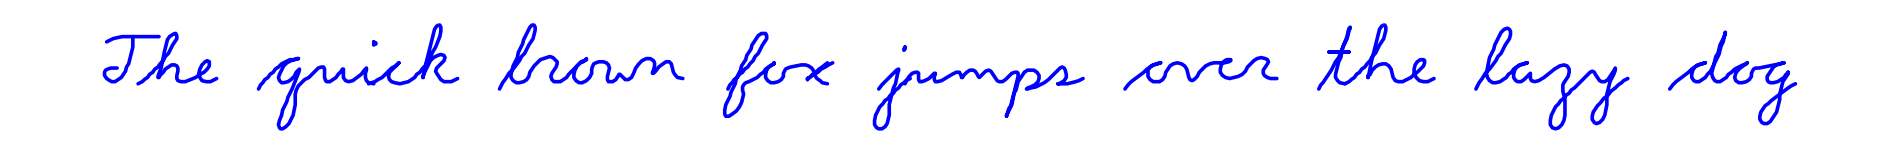
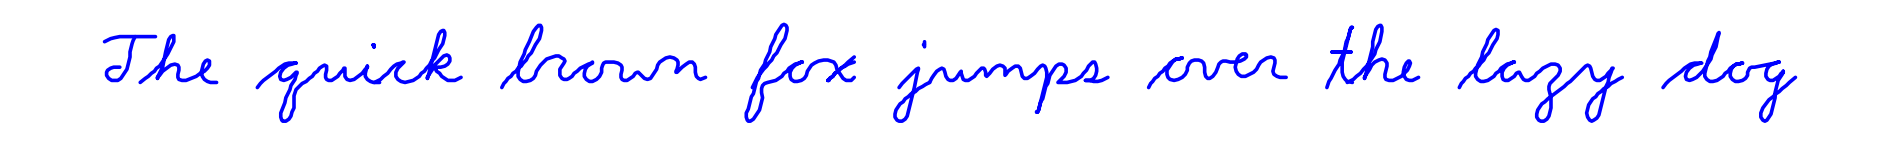
Two heads, doubled learning rates; retrained README samples
Time-matched on cursive (same seed): 2 heads match 4 at 28 vs 43 ms/step,
since MPS attention is memory-bound and scales with head count; doubling the
Muon and AdamW learning rates (0.04, 6e-3) reaches the same loss in a quarter
fewer steps (3x was worse). Together: test loss 2.009 in 3.3 min vs 2.014 in
6.9. Three layers, wider models, and AdamW alone all lost; the AdamW-only
path is removed.

Full 20k-step run: test loss 1.952 in 14.4 min (old recipe: 1.98 in ~51).
Greedy writes the pangram 9/9 and the Iliad opening 16/17. Hero, Iliad and
progress images regenerated from it.

Progress grid: one meaning per column -- real test drawing (green), greedy
(blue), three samples (black) -- with greedy on every row.

Runs whose step count is not a multiple of eval_every now evaluate at the end.

diff --git a/pengpt.py b/pengpt.py
@@ -46,7 +46,7 @@ class DataConfig:
 @dataclass
 class ModelConfig:
     n_layer: int = 5
-    n_head: int = 4
+    n_head: int = 2
     n_embd: int = 64
     pen_pos_bands: int = 8
     pen_pos_jitter: int = 32
@@ -60,9 +60,8 @@ class ModelConfig:
 class TrainConfig:
     steps: int = 20_000
     batch_size: int = 16
-    optimizer: str = "muon"
-    learning_rate: float = 3e-3
-    matrix_lr: float = 0.02
+    learning_rate: float = 6e-3
+    matrix_lr: float = 0.04
     weight_decay: float = 1e-4
     warmup: int = 200
     warmdown: float = 0.4
@@ -83,7 +82,7 @@ class TrainConfig:
 DERIVED_FIELDS = {"vocab_size", "block_size", "context_vocab_size",
                   "context_block_size"}
 
-CHOICES = {"augment": ("none", "general", "handwriting"), "optimizer": ("muon", "adamw")}
+CHOICES = {"augment": ("none", "general", "handwriting")}
 
 
 def add_config_args(parser):
@@ -813,14 +812,11 @@ class Muon(torch.optim.Optimizer):
 
 
 def make_optimizers(model, cfg):
-    matrices = [p for n, p in model.named_parameters() if p.ndim == 2 and n.startswith("blocks.")]
-    others = [p for n, p in model.named_parameters() if not (p.ndim == 2 and n.startswith("blocks."))]
-    if cfg.optimizer == "adamw":
-        matrices, others = [], list(model.parameters())
-    opts = [torch.optim.AdamW(others, lr=cfg.learning_rate, weight_decay=cfg.weight_decay,
-                              betas=(0.9, 0.99), eps=1e-8)]
-    if matrices:
-        opts.append(Muon(matrices, lr=cfg.matrix_lr))
+    is_matrix = lambda n, p: p.ndim == 2 and n.startswith("blocks.")
+    opts = [torch.optim.AdamW([p for n, p in model.named_parameters() if not is_matrix(n, p)],
+                              lr=cfg.learning_rate, weight_decay=cfg.weight_decay,
+                              betas=(0.9, 0.99), eps=1e-8),
+            Muon([p for n, p in model.named_parameters() if is_matrix(n, p)], lr=cfg.matrix_lr)]
     for opt in opts:
         for group in opt.param_groups:
             group["initial_lr"] = group["lr"]
@@ -980,27 +976,25 @@ def generate_paragraph(model, dataset, text, params=None, words=None, redo=None)
     return words
 
 
-def save_progress(model, dataset, out_dir, step, showcase=(), n=6, samples=4):
+def save_progress(model, dataset, out_dir, step, showcase=(), n=6, samples=3):
     X, C, _ = dataset.batch(range(n))
     C = torch.cat([C] + [torch.from_numpy(dataset.encode_text(t))[None] for t in showcase])
     st, device, rows = dataset.stroke_tok, next(model.parameters()).device, len(C)
+    gen = lambda k, do_sample: model.generate(
+        torch.full((rows * k, 1), st.BOS, device=device), C.repeat_interleave(k, 0).to(device),
+        dataset.cfg.max_seq_length - 1, do_sample=do_sample, end_token=st.END, pad_token=st.PAD).cpu()
     torch.manual_seed(3)
-    out = model.generate(torch.full((rows * samples, 1), st.BOS, device=device),
-                         C.repeat_interleave(samples, 0).to(device),
-                         dataset.cfg.max_seq_length - 1, end_token=st.END, pad_token=st.PAD).cpu()
-    greedy = model.generate(torch.full((rows - n, 1), st.BOS, device=device), C[n:].to(device),
-                            dataset.cfg.max_seq_length - 1, do_sample=False, end_token=st.END,
-                            pad_token=st.PAD).cpu() if rows > n else []
-    fig, axes = plt.subplots(rows, samples + 1, figsize=(3 * (samples + 1), 1.1 * rows),
+    greedy, out = gen(1, False), gen(samples, True)
+    fig, axes = plt.subplots(rows, samples + 2, figsize=(3 * (samples + 2), 1.1 * rows),
                              squeeze=False, sharex="row", sharey="row")
     params = SampleParams(line_width=2.5)
     for i in range(rows):
-        drawings = list(out[i * samples:(i + 1) * samples]) + [X[i] if i < n else greedy[i - n]]
-        for j, ax in enumerate(axes[i]):
-            color = "k" if j < samples else "darkgreen" if i < n else "navy"
-            plot_words(st.decode(drawings[j].numpy()), params, ax=ax, color=color)
+        drawings = [X[i] if i < n else None, greedy[i]] + list(out[i * samples:(i + 1) * samples])
+        for j, (ax, tokens) in enumerate(zip(axes[i], drawings)):
+            words = [] if tokens is None else st.decode(tokens.numpy())
+            plot_words(words, params, ax=ax, color=("darkgreen", "navy")[j] if j < 2 else "k")
         axes[i][0].set_title(dataset.char_tok.decode(C[i]), loc="left", fontsize=8, pad=2)
-    fig.suptitle(f"step {step:,}: samples (black), real test example (green), greedy (blue)",
+    fig.suptitle(f"step {step:,}: real test example (green), greedy (blue), samples (black)",
                  fontsize=10)
     fig.subplots_adjust(left=0.01, right=0.99, bottom=0.01, top=0.95, wspace=0.03, hspace=0.3)
     os.makedirs(out_dir, exist_ok=True)
@@ -1108,7 +1102,7 @@ def train(data_cfg, model_cfg, train_cfg):
             ms = (time.time() - t_print) * 1000 / train_cfg.print_every
             print(f"step {step} | loss {loss.item():.4f} | {ms:.0f} ms/step | lr x{mult:.3f}")
             t_print = time.time()
-        if step % train_cfg.eval_every != 0:
+        if step % train_cfg.eval_every and step < train_cfg.steps:
             continue
 
         train_loss = evaluate(model, train_dataset, device)

diff --git a/README.md b/README.md
@@ -13,7 +13,7 @@ dataset.
 
 The paper and this repo share the same skeleton — a small nanoGPT-lineage
 decoder with cross-attention over a character-level encoding of the prompt,
-about 440k parameters there and 385k here — so the difference is almost
+about 440k parameters there and 400k here — so the difference is almost
 entirely in how ink becomes tokens. The paper turns each pen point into a
 stroke offset and then polar coordinates, spending two tokens per point (a
 220-bin angle, then a 150-bin radius that carries the pen state); this repo
@@ -26,8 +26,8 @@ machinery the paper's codebase needed on top — per-writer character tables,
 generation seeded with real strokes from the training set, an inter-word
 carriage-jump formula — disappears. Trained head to head at matched wall
 clock, the new representation reached 3.43 bits per pen-point against 7.16,
-which is what shrank a full run from 125,000 steps on a rented A100 to
-20,000 steps in under an hour on a laptop.
+which, with a nanochat-style model and the Muon optimizer, shrank a full run
+from 125,000 steps on a rented A100 to 20,000 steps in 15 minutes on a laptop.
 
 ![hero](static/hero.png)
 
@@ -47,13 +47,14 @@ size move between presets.
 
 ![progress](static/progress.png)
 
-The grid written at every eval, here at step 6,000 — about five minutes of
-training. Each of the top six rows is a held-out test prompt: four samples in
-black, then the real drawing in green. The bottom rows are showcase phrases
-(`--showcase`, set per preset) with no ground truth; their last column is the
-greedy sample in blue. Prompts and seeds are fixed, so consecutive grids differ
-only by the model. Four samples per prompt is what makes it readable: one
-sample cannot tell a model ignoring its prompt from a model having a bad draw.
+The grid written at every eval, here at the end of a 20,000-step run (14
+minutes). Every column means one thing: the real test drawing (green), the
+greedy sample (blue), then three random samples (black). The top six rows are
+held-out test prompts; the bottom rows are showcase phrases (`--showcase`, set
+per preset), which have no real drawing. Prompts and seeds are fixed, so
+consecutive grids differ only by the model. Several samples per prompt is what
+makes it readable: one sample cannot tell a model ignoring its prompt from a
+model having a bad draw.
 
 ## Quickstart
 
@@ -63,7 +64,7 @@ pip install -e ".[dev]"   # + pytest
 pytest tests/             # a few seconds
 ```
 
-Train — about 15 minutes on an M-series laptop (43 ms/step on an M3 Pro), no GPU
+Train — about 15 minutes on an M-series laptop (14.4 on an M3 Pro), no GPU
 rental needed:
 
 ```bash
@@ -155,7 +156,7 @@ token — which is what keeps sequences short.
 *Grey is the original, red is decoded from tokens. `grid=0.020` is the default:
 reconstruction error stays inside the width of a pen stroke at 99 tokens per word.*
 
-**Model**: a small GPT-style decoder (~385k params at the cursive default)
+**Model**: a small GPT-style decoder (~400k params at the cursive default)
 with cross-attention over byte embeddings of the text prompt, built the way
 [nanochat](https://github.com/karpathy/nanochat) builds its GPT: rotary
 positions, parameter-free RMSNorm, QK-norm, ReLU² MLPs, no biases, zero-init
@@ -166,10 +167,14 @@ learning rate warms up, holds, and decays linearly over the last 40% of steps,
 and the training step is `torch.compile`d. Generation uses a fixed-shape key/value
 cache, so every decoding step has the same tensor shapes.
 
-On the bundled cursive at matched steps (6,000, same seed), this reached a
-test loss of 2.01 against 2.12 for the previous LayerNorm + AdamW + cosine
-recipe, at 43 ms per step against roughly 100. The previous recipe needed
-20,000 steps to reach 1.98.
+On the bundled cursive, a full 20,000-step run reaches a test loss of 1.95 in
+14 minutes; the previous LayerNorm + AdamW + cosine recipe reached 1.98 in 51.
+Measured at matched steps (6,000, same seed), the new recipe scores 2.01
+against 2.12. Two heads rather than four lost nothing and cut the step from
+43 ms to 28, because attention on MPS is bound by memory traffic that scales
+with head count, and doubling both learning rates reached the same loss in a
+quarter fewer steps; three layers, wider models, and AdamW alone all lost at
+matched wall clock.
 
 The prompt reaches the model only through that cross-attention, never as a class
 index, so the same architecture takes a word to write or the name of an object
@@ -240,8 +245,9 @@ python pengpt.py sample --checkpoint out/cursive/best.pt --greedy --text "Sing, 
 
 Long text is generated a few words per model call and laid out with wrapping.
 Sixteen of these seventeen words came out right on the first greedy pass; the
-seventeenth ("Achaeans.") was regenerated on its own with `--redo 16`, which
-is the intended workflow for the occasional miss.
+seventeenth ("ills", written "ill") was resampled on its own, which is the
+intended workflow for the occasional miss. All four seeds tried spelled it
+correctly.
 
 ## Training on your own pen data
 
